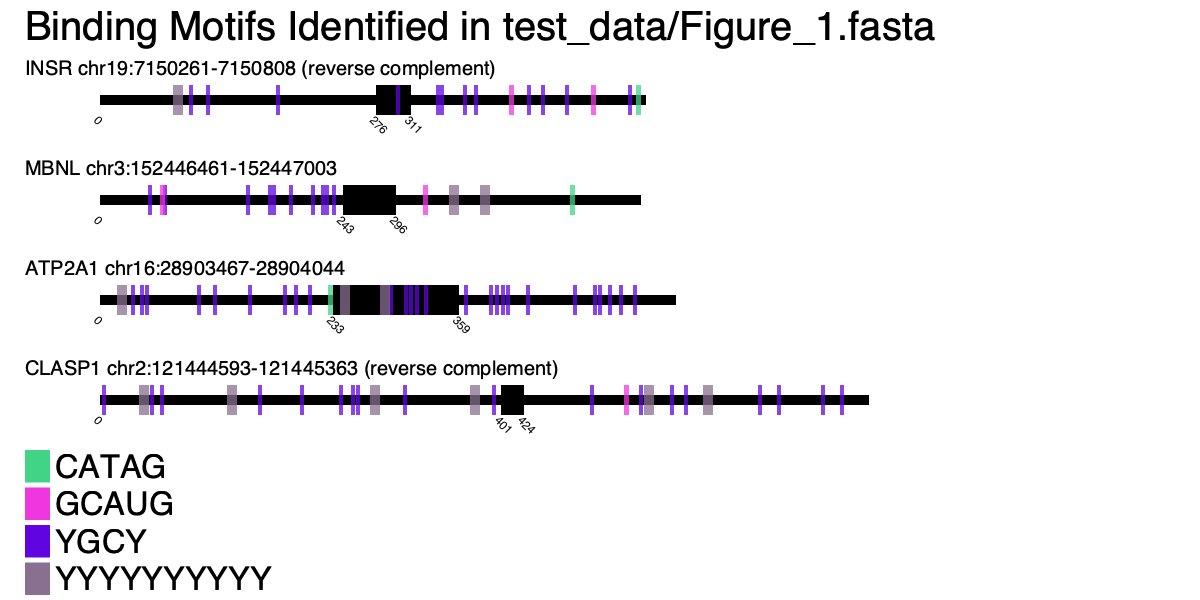
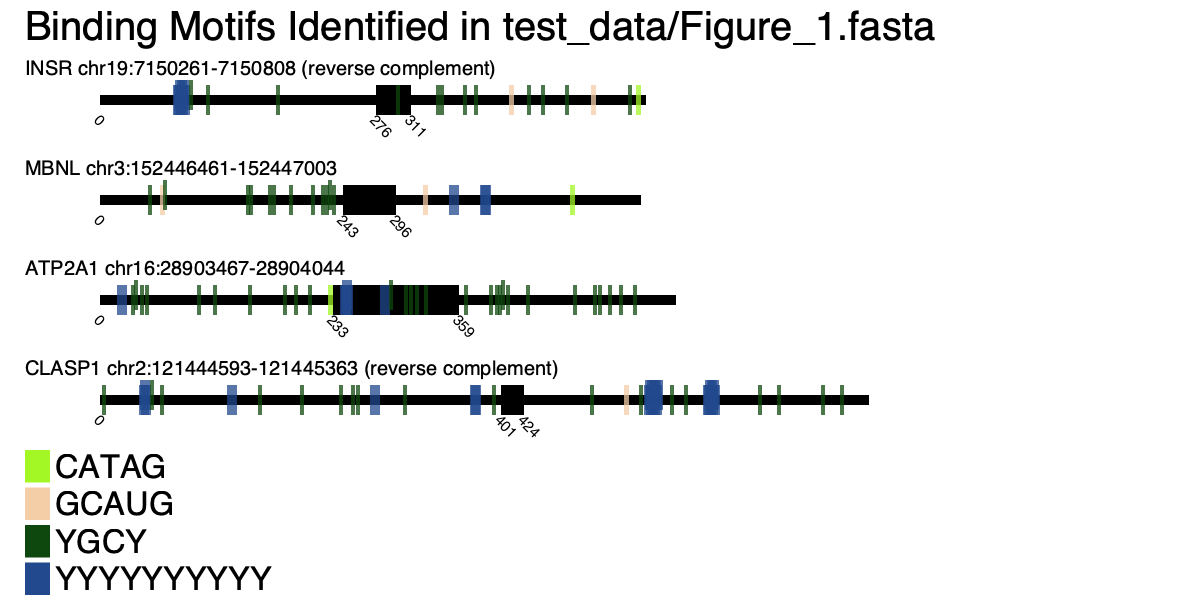
changed to find overlapping same motifs and creted staggering for overlaps motifs in the visual output

diff --git a/motif-mark-oop.py b/motif-mark-oop.py
@@ -237,6 +237,7 @@ def read_fasta(fasta_life:str, intron_list: list, exon_list: list, motifs_seen: 
             regex_motif = ""
             for base in motif:
                 regex_motif += IUPAC_TO_REGEX[base]
+            regex_motif = f'(?={regex_motif})'
             regex_motif = re.compile(regex_motif)
             motif_hits = re.finditer(regex_motif, read)
             motifs_seen = process_motif(motifs_seen, read_ct, motif_colors, motif_hits, motif)
@@ -274,7 +275,7 @@ def visualize_motifs(intron_list: list, exon_list: list, motifs_seen: list, head
         ctx.save()
         ctx.set_source_rgb(0, 0, 0)
         ctx.select_font_face("Sans", cairo.FONT_SLANT_NORMAL, cairo.FONT_WEIGHT_NORMAL)
-        ctx.set_font_size(12)
+        ctx.set_font_size(15)
         pivot_x = intron.start
         pivot_y = y
         ctx.translate(pivot_x, pivot_y)
@@ -298,7 +299,7 @@ def visualize_motifs(intron_list: list, exon_list: list, motifs_seen: list, head
         ctx.save()
         ctx.set_source_rgb(0, 0, 0)
         ctx.select_font_face("Sans", cairo.FONT_SLANT_NORMAL, cairo.FONT_WEIGHT_NORMAL)
-        ctx.set_font_size(12)
+        ctx.set_font_size(15)
         pivot_x = exon.start
         pivot_y = y
         ctx.translate(pivot_x, pivot_y)
@@ -308,15 +309,41 @@ def visualize_motifs(intron_list: list, exon_list: list, motifs_seen: list, head
         ctx.show_text(f"{base_pair_idx}")
         ctx.restore() 
 
-    for motif in motifs_seen:
-        # Draws a rectangle for each motif, with the appropriate color and label
+    prev_x_cord_end = 0
+    prev_header_idx = 0
+    overlap_idx = 0
+    # Draws a rectangle for each motif, with the appropriate color and label
+    for motif in sorted(motifs_seen, key=lambda m: (m.header_idx, m.x_cord)):
         red, green, blue = motif.color
-        ctx.set_source_rgba(red, green, blue, 0.75)
-        ctx.rectangle(motif.x_cord, 
-                      (motif.y_cord + (adjustment_idx * (motif.header_idx - 1))) - 15,
-                      len(motif.binding_motif),
-                      30)
-        ctx.fill()
+        if prev_header_idx != motif.header_idx:
+            overlap_idx = 0
+        if motif.x_cord < prev_x_cord_end and overlap_idx % 2 == 0:
+            # Create a stagger effect for overlaping motifs depending on the number of overlaps seen in this read
+            ctx.set_source_rgba(red, green, blue, 0.75)
+            ctx.rectangle(motif.x_cord, 
+                        (motif.y_cord + (adjustment_idx * (motif.header_idx - 1))) - 15,
+                        len(motif.binding_motif),
+                        30)
+            ctx.fill()
+            overlap_idx += 1
+        elif motif.x_cord < prev_x_cord_end and overlap_idx % 2 == 1:
+            ctx.set_source_rgba(red, green, blue, 0.75)
+            ctx.rectangle(motif.x_cord, 
+                        (motif.y_cord + (adjustment_idx * (motif.header_idx - 1))) - 20,
+                        len(motif.binding_motif),
+                        30)
+            ctx.fill()
+            overlap_idx += 1
+        else:
+            ctx.set_source_rgba(red, green, blue, 0.75)
+            ctx.rectangle(motif.x_cord, 
+                        (motif.y_cord + (adjustment_idx * (motif.header_idx - 1))) - 15,
+                        len(motif.binding_motif),
+                        30)
+            ctx.fill()
+
+        prev_header_idx = motif.header_idx
+        prev_x_cord_end = motif.x_cord + len(motif.binding_motif)
 
     for header in header_list:
         # Draws the header labels on the left side of the figure, aligned with its corresponding introns and exons
